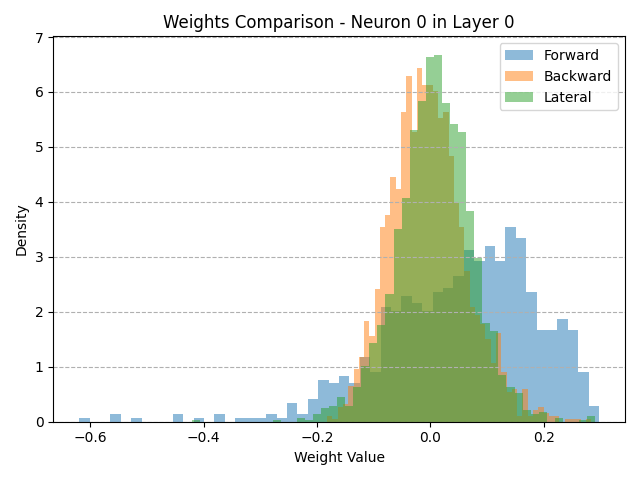
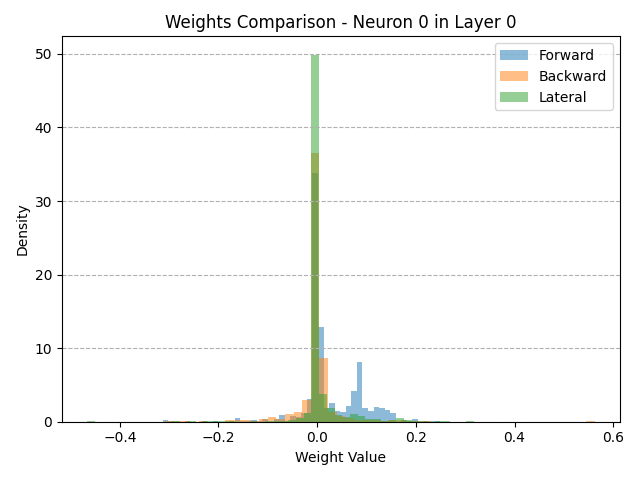
sparse

diff --git a/RecurrentFF/benchmarks/mnist/analyze_weights.py b/RecurrentFF/benchmarks/mnist/analyze_weights.py
@@ -89,17 +89,17 @@ def plot_weight_magnitude_histogram(all_weights):
 
 
 if __name__ == "__main__":
-    weights = torch.load("weights_9-2.pth")
+    weights = torch.load("MNIST_l1_10_pre_10_post_real.pth")
 
     for element in weights:
         print(element)
 
-    adjacency_matrix = np.zeros((6000, 6000))
+    adjacency_matrix = np.zeros((3000, 3000))
 
     layers = 3
     for i in range(layers):
-        start_idx = i * 2000
-        end_idx = (i + 1) * 2000
+        start_idx = i * 1000
+        end_idx = (i + 1) * 1000
 
         backward_key = f"inner_layers.layers.{i}.forward_linear.weight"
         recurrent_key = f"inner_layers.layers.{i}.lateral_linear.weight"
@@ -107,8 +107,8 @@ if __name__ == "__main__":
 
         # backward weights
         if i != layers - 1:
-            adjacency_matrix[start_idx:end_idx, start_idx + 2000:end_idx +
-                             2000] = np.abs(weights[forward_key].detach().cpu().numpy())
+            adjacency_matrix[start_idx:end_idx, start_idx + 1000:end_idx +
+                             1000] = np.abs(weights[forward_key].detach().cpu().numpy())
 
         # recurrent weights
         adjacency_matrix[start_idx:end_idx, start_idx:end_idx] = np.abs(
@@ -116,14 +116,14 @@ if __name__ == "__main__":
 
         # forward weights
         if i != 0:
-            adjacency_matrix[start_idx:end_idx, start_idx - 2000:end_idx -
-                             2000] = np.abs(weights[backward_key].detach().cpu().numpy())
+            adjacency_matrix[start_idx:end_idx, start_idx - 1000:end_idx -
+                             1000] = np.abs(weights[backward_key].detach().cpu().numpy())
 
     # Flatten the adjacency matrix to get all weights as a 1D array
     all_weights = adjacency_matrix.flatten()
 
     # Find the threshold corresponding to the 25th percentile
-    percent = 35
+    percent = 94
     threshold = np.percentile(all_weights, percent)
 
     # Print the threshold

diff --git a/RecurrentFF/benchmarks/mnist/analyze_lateral_weights.py b/RecurrentFF/benchmarks/mnist/analyze_lateral_weights.py
@@ -4,9 +4,8 @@ import matplotlib.pyplot as plt
 from numpy.linalg import eig
 
 # Load the weights
-weights = torch.load("weights_9-2.pth")
+weights = torch.load("MNIST_l1_10_pre_10_post_real.pth")
 
-matrix_size = 6000
 layers = 3
 
 # 1. Extract the lateral connectivity matrices from the weights.
@@ -16,11 +15,17 @@ for i in range(layers):
     lateral_matrix = np.abs(weights[recurrent_key].detach().cpu().numpy())
     lateral_matrices.append(lateral_matrix)
 
+print("about to compute eig")
+
 # 2. Compute the eigenvalues of these matrices.
 eigenvalues_list = [eig(matrix)[0] for matrix in lateral_matrices]
 
+print("about to analyze eig")
+
 # 3. Analyze the real parts of the eigenvalues to determine the stability of the system.
 for idx, eigenvalues in enumerate(eigenvalues_list):
+    print(f"Eigenvalues for Lateral Matrix {idx+1}:")
+
     unstable_modes = np.sum(np.real(eigenvalues) > 1)
     print(f"For lateral matrix {idx+1}:")
     print(

diff --git a/RecurrentFF/benchmarks/mnist/analyze_weights_sparsity.py b/RecurrentFF/benchmarks/mnist/analyze_weights_sparsity.py
@@ -91,18 +91,18 @@ def plot_density_function(weights, layer_idx):
 
 
 # Assuming you're using the same loading code as before
-weights = torch.load("weights_9-2.pth")
+weights = torch.load("MNIST_l1_10_pre_10_post_real.pth")
 layers = len(weights) // 6
 
-# for i in range(layers):
-#     plot_density_function(weights, i)
+for i in range(layers):
+    plot_density_function(weights, i)
 
 
 # Get global min and max values for consistent scale
 vmin, vmax = get_global_min_max(weights, layers)
-scaling_factor = 6
-vmin = vmin // scaling_factor
-vmax = vmax // scaling_factor
+scaling_factor = 10
+vmin = vmin / scaling_factor
+vmax = vmax / scaling_factor
 
 # Plot the heatmaps
 for i in range(layers):

diff --git a/RecurrentFF/benchmarks/mnist/collect_activations.py b/RecurrentFF/benchmarks/mnist/collect_activations.py
@@ -7,7 +7,7 @@ from RecurrentFF.model.model import RecurrentFFNet
 from RecurrentFF.settings import Settings, DataConfig
 
 TEST_BATCH_SIZE = 1
-NUM_BATCHES = 1
+NUM_BATCHES = 10
 
 if __name__ == "__main__":
     settings = Settings.new()
@@ -38,7 +38,7 @@ if __name__ == "__main__":
     model = RecurrentFFNet(settings).to(settings.device.device)
 
     model.load_state_dict(torch.load(
-        "MNIST-10-pre-15-post-(more layers)-95%.pth", map_location=settings.device.device))
+        "MNIST_l1_10_pre_10_post_real.pth", map_location=settings.device.device))
 
     model.predict(DataScenario.StaticSingleClass,
                   test_loader, NUM_BATCHES, write_activations=True)

diff --git a/RecurrentFF/benchmarks/mnist/granular_act.py b/RecurrentFF/benchmarks/mnist/granular_act.py
@@ -327,7 +327,7 @@ if __name__ == '__main__':
     plot_activation_heatmap('test_sample_3.pt', activation_type="incorrect")
 
     file_names = ['test_sample_3.pt', 'test_sample_2.pt', 'test_sample_1.pt', 'test_sample_4.pt', 'test_sample_5.pt',
-                  'test_sample_6.pt', 'test_sample_7.pt', 'test_sample_8.pt', 'test_sample_9.pt', 'test_sample_11.pt']
+                  'test_sample_6.pt', 'test_sample_7.pt', 'test_sample_8.pt', 'test_sample_9.pt', 'test_sample_10.pt']
     plot_cosine_similarity_multi_file(
         file_names, activation_type="correct")
     plot_cosine_similarity_multi_file(

diff --git a/RecurrentFF/benchmarks/mnist/analyze_weights_direct.py b/RecurrentFF/benchmarks/mnist/analyze_weights_direct.py
@@ -42,7 +42,7 @@ def plot_weights_comparison(forward_weights, backward_weights, lateral_weights, 
 
 
 # Load the weights
-weights = torch.load('weights_9-2.pth')
+weights = torch.load('MNIST_l1_10_pre_10_post_real.pth')
 
 # Number of layers in the network
 layers = len(weights) // 6

diff --git a/RecurrentFF/analysis/pt_to_dataframe.py b/RecurrentFF/analysis/pt_to_dataframe.py
@@ -7,7 +7,7 @@ DATASET = "MNIST"
 LABEL_SHOW_BOUNDARY = 10
 NUMBER_FILES = 1
 DIR_PATH = "artifacts/activations"
-DEVICE = "cuda"
+DEVICE = "mps"
 
 
 # Get the first 100 files from the directory
